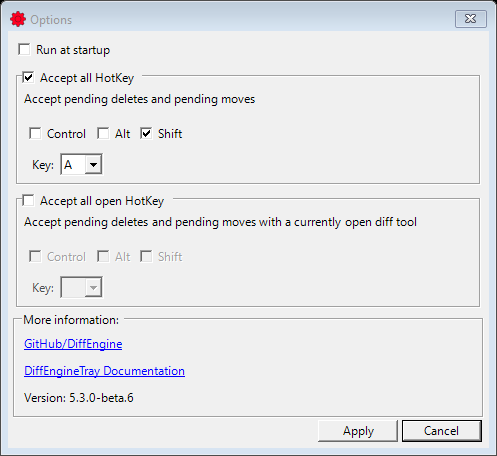
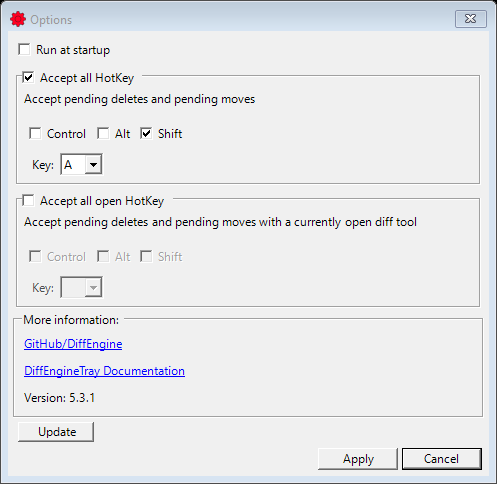
add update button

diff --git a/src/DiffEngineTray/Settings/OptionsForm.Designer.cs b/src/DiffEngineTray/Settings/OptionsForm.Designer.cs
@@ -23,8 +23,11 @@
             this.trayDocsLink = new System.Windows.Forms.LinkLabel();
             this.diffEngineLink = new System.Windows.Forms.LinkLabel();
             this.acceptOpenHotKey = new HotKeyControl();
+            this.flowLayoutPanel1 = new System.Windows.Forms.FlowLayoutPanel();
+            this.updateButton = new System.Windows.Forms.Button();
             this.bottomPanel.SuspendLayout();
             this.groupBox1.SuspendLayout();
+            this.flowLayoutPanel1.SuspendLayout();
             this.SuspendLayout();
             // 
             // bottomPanel
@@ -34,7 +37,7 @@
             this.bottomPanel.Controls.Add(this.save);
             this.bottomPanel.Dock = System.Windows.Forms.DockStyle.Bottom;
             this.bottomPanel.FlowDirection = System.Windows.Forms.FlowDirection.RightToLeft;
-            this.bottomPanel.Location = new System.Drawing.Point(9, 714);
+            this.bottomPanel.Location = new System.Drawing.Point(9, 779);
             this.bottomPanel.Margin = new System.Windows.Forms.Padding(3, 4, 3, 4);
             this.bottomPanel.Name = "bottomPanel";
             this.bottomPanel.Size = new System.Drawing.Size(807, 52);
@@ -70,11 +73,11 @@
             this.acceptAllHotKey.Help = "Accept pending deletes and pending moves";
             this.acceptAllHotKey.HotKey = null;
             this.acceptAllHotKey.Label = "Accept all HotKey";
-            this.acceptAllHotKey.Location = new System.Drawing.Point(9, 59);
+            this.acceptAllHotKey.Location = new System.Drawing.Point(9, 58);
             this.acceptAllHotKey.Margin = new System.Windows.Forms.Padding(3, 4, 3, 4);
             this.acceptAllHotKey.Name = "acceptAllHotKey";
             this.acceptAllHotKey.Padding = new System.Windows.Forms.Padding(5, 6, 5, 6);
-            this.acceptAllHotKey.Size = new System.Drawing.Size(807, 224);
+            this.acceptAllHotKey.Size = new System.Drawing.Size(807, 220);
             this.acceptAllHotKey.TabIndex = 2;
             this.acceptAllHotKey.TabStop = false;
             // 
@@ -86,7 +89,7 @@
             this.startupCheckBox.Margin = new System.Windows.Forms.Padding(3, 4, 3, 4);
             this.startupCheckBox.Name = "startupCheckBox";
             this.startupCheckBox.Padding = new System.Windows.Forms.Padding(9, 8, 9, 8);
-            this.startupCheckBox.Size = new System.Drawing.Size(807, 51);
+            this.startupCheckBox.Size = new System.Drawing.Size(807, 50);
             this.startupCheckBox.TabIndex = 3;
             this.startupCheckBox.Text = "Run at startup";
             this.startupCheckBox.UseVisualStyleBackColor = true;
@@ -98,11 +101,11 @@
             this.groupBox1.Controls.Add(this.trayDocsLink);
             this.groupBox1.Controls.Add(this.diffEngineLink);
             this.groupBox1.Dock = System.Windows.Forms.DockStyle.Top;
-            this.groupBox1.Location = new System.Drawing.Point(9, 507);
+            this.groupBox1.Location = new System.Drawing.Point(9, 498);
             this.groupBox1.Margin = new System.Windows.Forms.Padding(5, 6, 5, 6);
             this.groupBox1.Name = "groupBox1";
             this.groupBox1.Padding = new System.Windows.Forms.Padding(10);
-            this.groupBox1.Size = new System.Drawing.Size(807, 179);
+            this.groupBox1.Size = new System.Drawing.Size(807, 174);
             this.groupBox1.TabIndex = 5;
             this.groupBox1.TabStop = false;
             this.groupBox1.Text = "More information:";
@@ -111,11 +114,11 @@
             // 
             this.versionLabel.AutoSize = true;
             this.versionLabel.Dock = System.Windows.Forms.DockStyle.Top;
-            this.versionLabel.Location = new System.Drawing.Point(10, 126);
+            this.versionLabel.Location = new System.Drawing.Point(10, 122);
             this.versionLabel.Margin = new System.Windows.Forms.Padding(5, 0, 5, 0);
             this.versionLabel.Name = "versionLabel";
             this.versionLabel.Padding = new System.Windows.Forms.Padding(5, 6, 5, 6);
-            this.versionLabel.Size = new System.Drawing.Size(99, 43);
+            this.versionLabel.Size = new System.Drawing.Size(91, 42);
             this.versionLabel.TabIndex = 2;
             this.versionLabel.Text = "Version";
             // 
@@ -123,11 +126,11 @@
             // 
             this.trayDocsLink.AutoSize = true;
             this.trayDocsLink.Dock = System.Windows.Forms.DockStyle.Top;
-            this.trayDocsLink.Location = new System.Drawing.Point(10, 83);
+            this.trayDocsLink.Location = new System.Drawing.Point(10, 80);
             this.trayDocsLink.Margin = new System.Windows.Forms.Padding(5, 0, 5, 0);
             this.trayDocsLink.Name = "trayDocsLink";
             this.trayDocsLink.Padding = new System.Windows.Forms.Padding(5, 6, 5, 6);
-            this.trayDocsLink.Size = new System.Drawing.Size(335, 43);
+            this.trayDocsLink.Size = new System.Drawing.Size(307, 42);
             this.trayDocsLink.TabIndex = 1;
             this.trayDocsLink.TabStop = true;
             this.trayDocsLink.Text = "DiffEngineTray Documentation";
@@ -137,11 +140,11 @@
             // 
             this.diffEngineLink.AutoSize = true;
             this.diffEngineLink.Dock = System.Windows.Forms.DockStyle.Top;
-            this.diffEngineLink.Location = new System.Drawing.Point(10, 40);
+            this.diffEngineLink.Location = new System.Drawing.Point(10, 38);
             this.diffEngineLink.Margin = new System.Windows.Forms.Padding(5, 0, 5, 0);
             this.diffEngineLink.Name = "diffEngineLink";
             this.diffEngineLink.Padding = new System.Windows.Forms.Padding(5, 6, 5, 6);
-            this.diffEngineLink.Size = new System.Drawing.Size(212, 43);
+            this.diffEngineLink.Size = new System.Drawing.Size(193, 42);
             this.diffEngineLink.TabIndex = 0;
             this.diffEngineLink.TabStop = true;
             this.diffEngineLink.Text = "GitHub/DiffEngine";
@@ -154,13 +157,34 @@
             this.acceptOpenHotKey.Help = "Accept pending deletes and pending moves with a currently open diff tool";
             this.acceptOpenHotKey.HotKey = null;
             this.acceptOpenHotKey.Label = "Accept all open HotKey";
-            this.acceptOpenHotKey.Location = new System.Drawing.Point(9, 283);
+            this.acceptOpenHotKey.Location = new System.Drawing.Point(9, 278);
             this.acceptOpenHotKey.Margin = new System.Windows.Forms.Padding(3, 4, 3, 4);
             this.acceptOpenHotKey.Name = "acceptOpenHotKey";
             this.acceptOpenHotKey.Padding = new System.Windows.Forms.Padding(5, 6, 5, 6);
-            this.acceptOpenHotKey.Size = new System.Drawing.Size(807, 224);
+            this.acceptOpenHotKey.Size = new System.Drawing.Size(807, 220);
             this.acceptOpenHotKey.TabIndex = 6;
             this.acceptOpenHotKey.TabStop = false;
+            // 
+            // flowLayoutPanel1
+            // 
+            this.flowLayoutPanel1.AutoSize = true;
+            this.flowLayoutPanel1.Controls.Add(this.updateButton);
+            this.flowLayoutPanel1.Dock = System.Windows.Forms.DockStyle.Top;
+            this.flowLayoutPanel1.Location = new System.Drawing.Point(9, 672);
+            this.flowLayoutPanel1.Name = "flowLayoutPanel1";
+            this.flowLayoutPanel1.Padding = new System.Windows.Forms.Padding(5);
+            this.flowLayoutPanel1.Size = new System.Drawing.Size(807, 56);
+            this.flowLayoutPanel1.TabIndex = 7;
+            // 
+            // updateButton
+            // 
+            this.updateButton.Location = new System.Drawing.Point(8, 8);
+            this.updateButton.Name = "updateButton";
+            this.updateButton.Size = new System.Drawing.Size(131, 40);
+            this.updateButton.TabIndex = 0;
+            this.updateButton.Text = "Update";
+            this.updateButton.UseVisualStyleBackColor = true;
+            this.updateButton.Click += new System.EventHandler(this.updateButton_Click);
             // 
             // OptionsForm
             // 
@@ -169,7 +193,8 @@
             this.AutoScaleMode = System.Windows.Forms.AutoScaleMode.Font;
             this.AutoSize = true;
             this.CancelButton = this.cancel;
-            this.ClientSize = new System.Drawing.Size(825, 774);
+            this.ClientSize = new System.Drawing.Size(825, 839);
+            this.Controls.Add(this.flowLayoutPanel1);
             this.Controls.Add(this.groupBox1);
             this.Controls.Add(this.bottomPanel);
             this.Controls.Add(this.acceptOpenHotKey);
@@ -187,6 +212,7 @@
             this.bottomPanel.ResumeLayout(false);
             this.groupBox1.ResumeLayout(false);
             this.groupBox1.PerformLayout();
+            this.flowLayoutPanel1.ResumeLayout(false);
             this.ResumeLayout(false);
             this.PerformLayout();
 
@@ -201,4 +227,6 @@
     private System.Windows.Forms.LinkLabel trayDocsLink;
     private System.Windows.Forms.Label versionLabel;
     private HotKeyControl acceptOpenHotKey;
+    private System.Windows.Forms.FlowLayoutPanel flowLayoutPanel1;
+    private System.Windows.Forms.Button updateButton;
 }

diff --git a/src/DiffEngineTray/Settings/OptionsForm.cs b/src/DiffEngineTray/Settings/OptionsForm.cs
@@ -1,5 +1,6 @@
 using System;
 using System.Collections.Generic;
+using System.Diagnostics;
 using System.Linq;
 using System.Text;
 using System.Threading.Tasks;
@@ -59,5 +60,17 @@ public partial class OptionsForm :
     void trayDocsLink_LinkClicked(object sender, LinkLabelLinkClickedEventArgs e)
     {
         LinkLauncher.LaunchUrl("https://github.com/VerifyTests/DiffEngine/blob/master/docs/tray.md");
+    }
+
+    void updateButton_Click(object sender, EventArgs e)
+    {
+        var info = new ProcessStartInfo(
+            "dotnet",
+            "tool update --global DiffEngineTray")
+        {
+            UseShellExecute = true
+        };
+        Process.Start(info);
+        Application.Exit();
     }
 }
